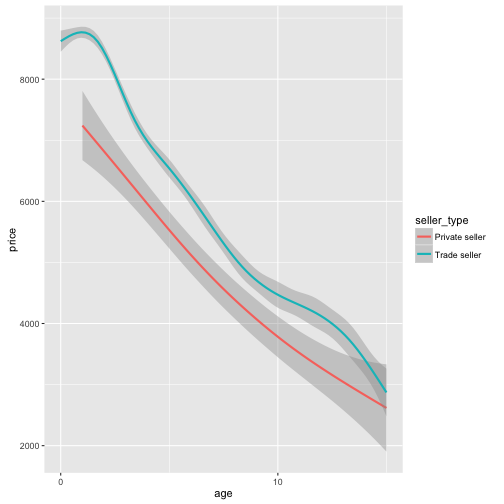
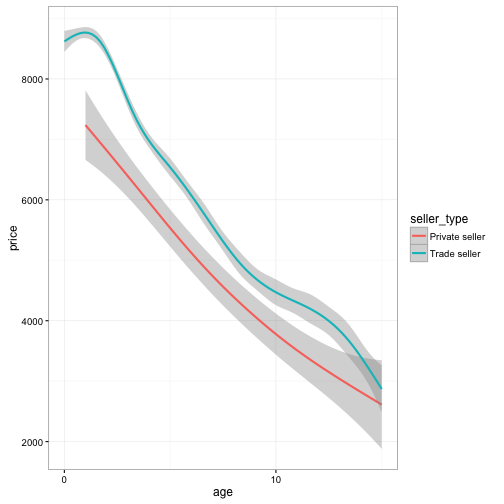
Use theme bw

diff --git a/source/_posts/2015-02-03-motorbike-prices-part-1.md b/source/_posts/2015-02-03-motorbike-prices-part-1.md
@@ -22,7 +22,7 @@ So, having lots of time on my hands at the moment, I started taking a quantitati
 # Step 1 : Get all the data
 The basis of my data is a request on a reputable motorbike classifieds website, looking for bikes which cost more than £500 (to avoid all the "wanted") posts, and with more than 200cc. I'm not claiming the data is perfect, far from it, but if you know a better source, let me know.
 
-As you can see below, I gathered prices and information for 15,505 bikes.
+As you can see below, I gathered prices and information for 15505 bikes.
 
 # Step 2 : Analysis
 
@@ -30,6 +30,7 @@ As you can see below, I gathered prices and information for 15,505 bikes.
 libs=c('data.table','knitr','ggplot2','stringr','pander','dplyr','lubridate')
 invisible(lapply(libs, require, character.only=TRUE))
 
+theme_set(theme_bw())
 data = fread('~/Dev/autoray/out.csv')
 
 data = within(data, {
@@ -367,5 +368,7 @@ I've only looked at a few things, and it seems obvious here that many results ar
 Next time, I'll look at the most frequent bike of the most frequent brand, and we'll see if these results still hold. Plus yeah, we'll have a first look at our pricing model and try to find some underpriced bikes.
 
 Stay tuned (and feel free to guess what model we'll be looking at in the comments, or let me know if you'd be interested in another specific analysis).
+
+__If you want to re-publish all or part of this data/graphs/article, get in touch. Just ask.__
 
 _I'd like to get some data on insurance as well, but it's a lot harder to gather. If you know a way, let me know..._
